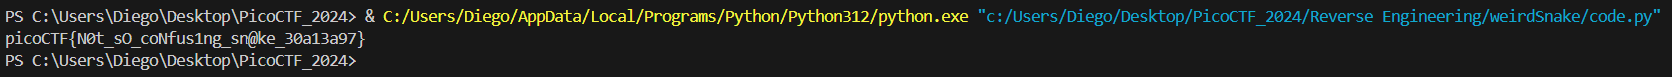
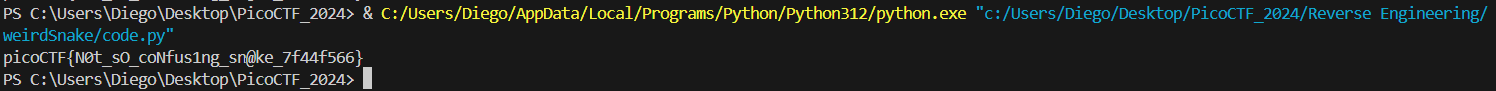
weirdSnake

diff --git a/Reverse Engineering/weirdSnake/code.py b/Reverse Engineering/weirdSnake/code.py
@@ -1,4 +1,4 @@
-input_list = [4, 54, 41, 0, 112, 32, 25, 49, 33, 3, 0, 0, 57, 32, 108, 23, 48, 4, 9, 70, 7, 110, 36, 8, 108, 7, 49, 10, 4, 86, 43, 108, 122, 14, 2, 71, 62, 115, 88, 78]
+input_list = [4, 54, 41, 0, 112, 32, 25, 49, 33, 3, 0, 0, 57, 32, 108, 23, 48, 4, 9, 70, 7, 110, 36, 8, 108, 7, 49, 10, 4, 86, 43, 104, 44, 91, 7, 18, 106, 124, 89, 78]
 key_str = 't_Jo3'
 key_list = [ord(char) for char in key_str]
 

diff --git a/Reverse Engineering/weirdSnake/README.md b/Reverse Engineering/weirdSnake/README.md
@@ -195,4 +195,4 @@ El resultado de ejecutar el código es:
 
 ![Output](img/2.png)
 
-Obteniendo así la flag: 'picoCTF{N0t_sO_coNfus1ng_sn@ke_30a13a97}'.
+Obteniendo así la flag: 'picoCTF{N0t_sO_coNfus1ng_sn@ke_7f44f566}'.
